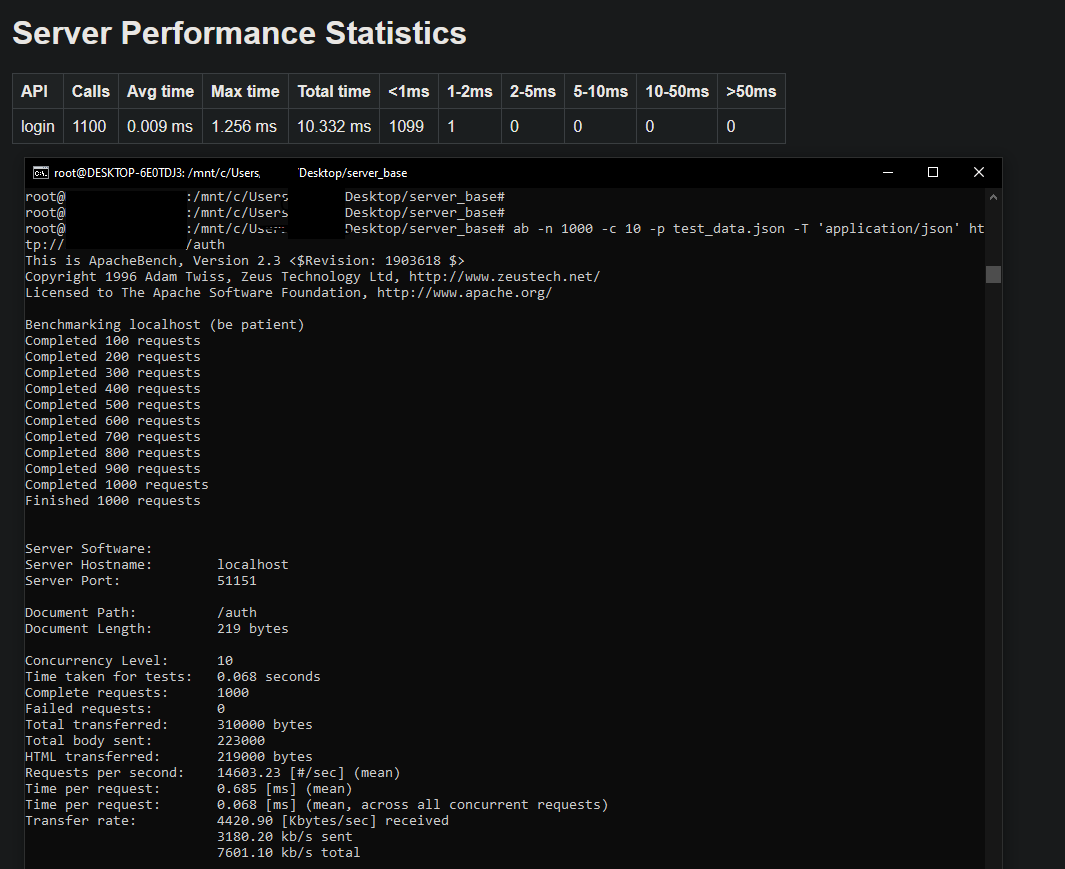
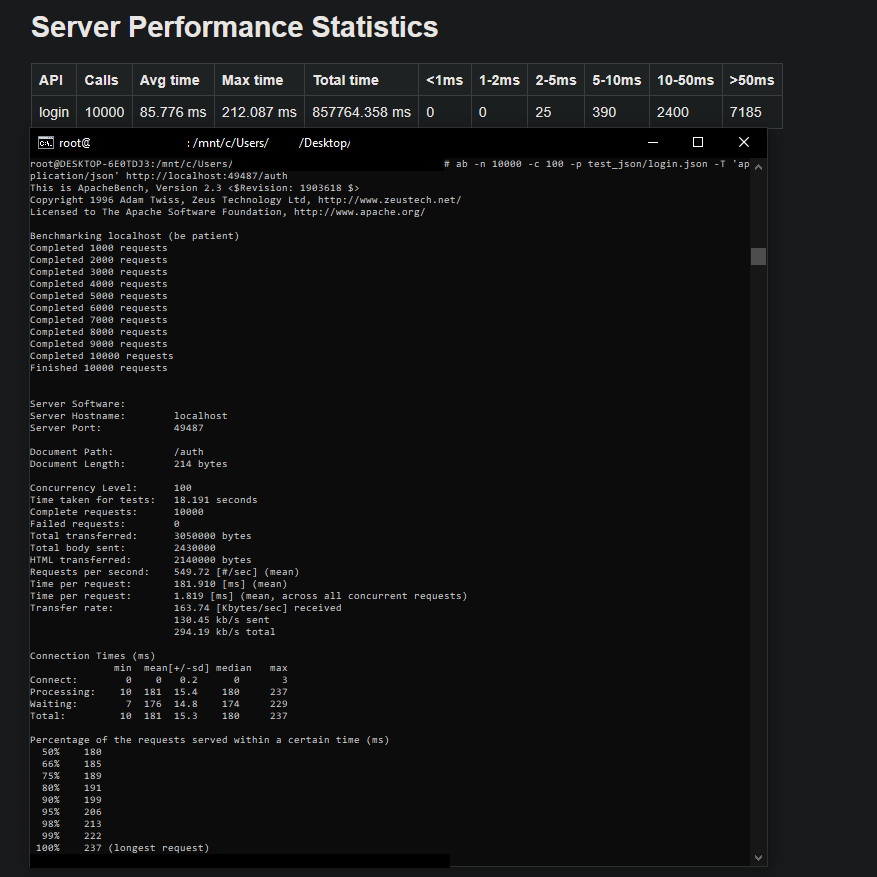
update readme and login profiling, remove comment from sql script

diff --git a/README.md b/README.md
@@ -4,7 +4,7 @@
 
 
 
-<em>auth_server /login api</em>
+<em>auth_server /login api, with coroutines running, database checks & updates</em>
 ![Stats Page login](docs/login_stats.PNG)
 
 
@@ -25,7 +25,7 @@ Dependency on libuv for timers, sockets/udp/tcp, event loops and threading.
 
 - sample_http_server: Sample http server supporting only [JSONRPC](https://www.jsonrpc.org/) capability
 
-- auth_server: Sample authentication server with login endpoint and restricted endpoint, using JWT for authentication
+- auth_server: Sample authentication server with login endpoint and restricted endpoint, using JWT for authentication, libpq connection to database, coroutines
 
 - prometheous_test: sample server endpoint for prometheus monitoring tools
 
@@ -39,7 +39,9 @@ Development with WSL
 
 Linux
 
-- `apt-get` packages: g++, make, build-essentials, libuv1-dev, [libjwt-dev](https://github.com/benmcollins/libjwt) (for `auth_server`)
+- `apt-get` packages: g++, make, build-essentials, libuv1-dev
+
+- for `auth_server`: libpq and [libjwt-dev](https://github.com/benmcollins/libjwt), `apt-get postgresql` for database, Then run db script in `auth_server/db_scripts` like so: `psql -U postgres -h localhost -d postgres -f db_scripts/reset_and_seed.sql`
 
 - `apt-get install libuv1-dbgsym` for debugging libuv
 
